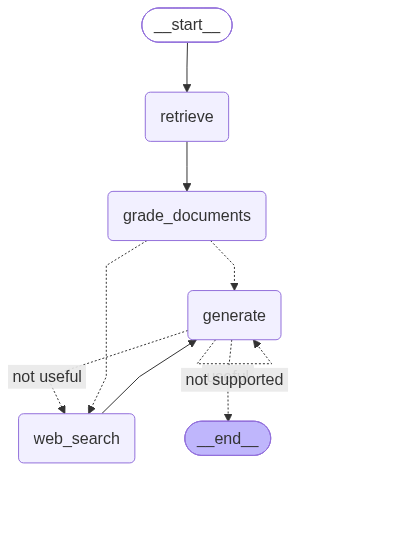
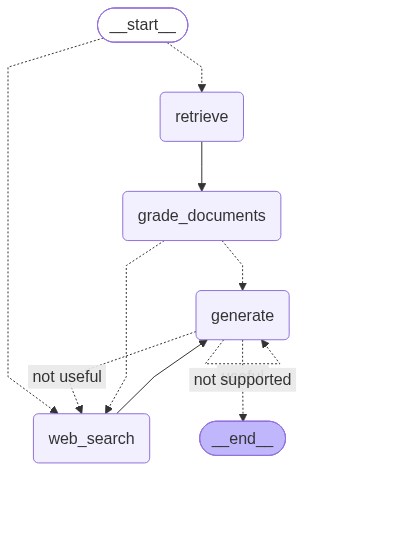
test run graph with web search router

diff --git a/graph/nodes/web_search.py b/graph/nodes/web_search.py
@@ -12,7 +12,7 @@ web_search_tool = TavilySearch(max_results=3)
 def web_search(state: GraphState) -> Dict[str, Any]:
     print("---WEB SEARCH---")
     question = state["question"]
-    documents = state["documents"]
+    documents = state.get("documents")  # absent when the router sends the question straight here
 
     tavily_results = web_search_tool.invoke({"query": question})
     joined_tavily_result = "\n".join(

diff --git a/main.py b/main.py
@@ -6,4 +6,4 @@ from graph.graph import app
 
 if __name__ == "__main__":
     print("Hello advanced RAG")
-    print(app.invoke(input={"question": "What is agent memory?"}))
+    print(app.invoke(input={"question": "How to make pizza?"}))
